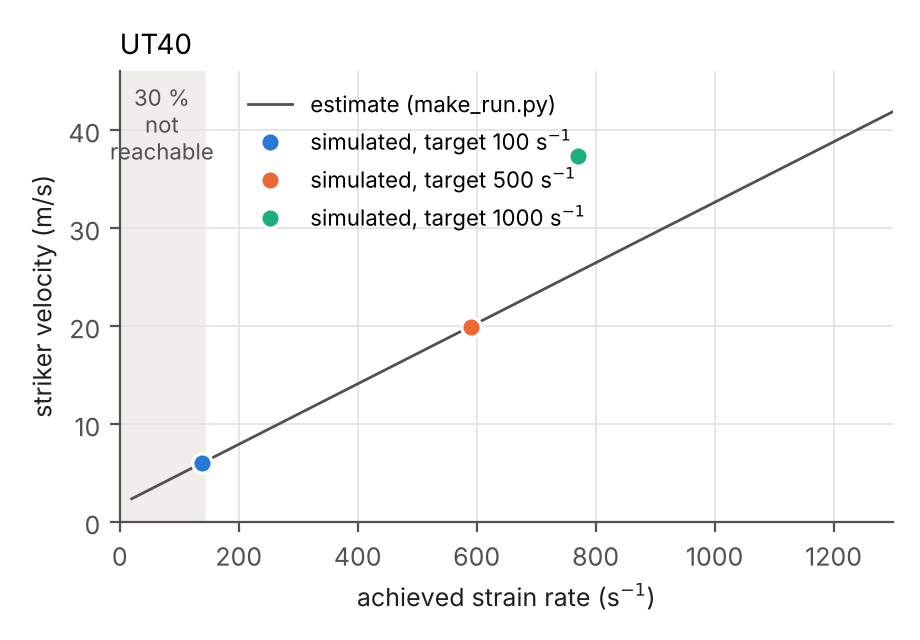
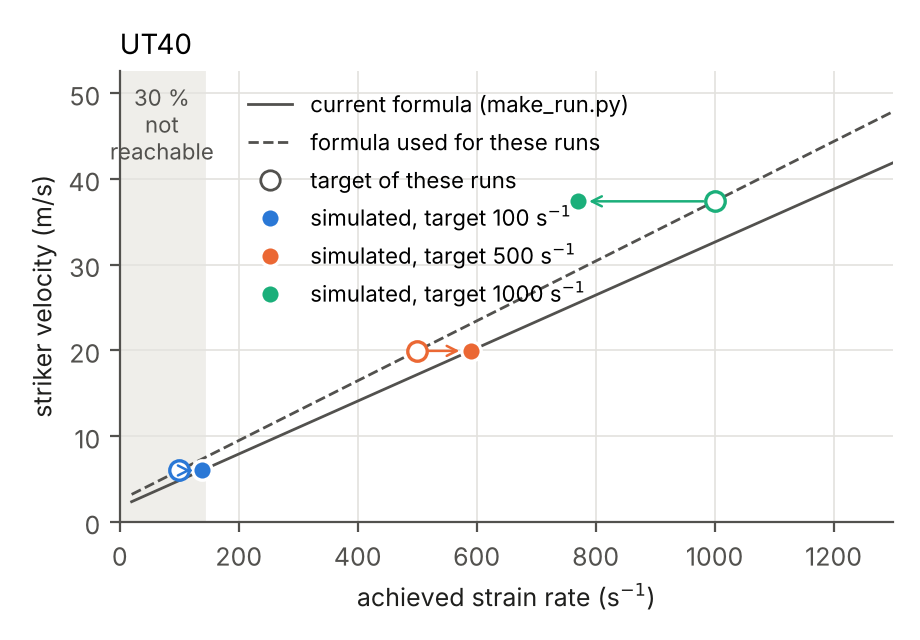
report_taskI: F5 shows the formula actually used when a study predates the recalibration
Claude-Session: https://claude.ai/code/session_01C589DfWUKukz1Y6CSBotW7

diff --git a/shpb-ut-equilibrium/scripts/post/report_taskI.py b/shpb-ut-equilibrium/scripts/post/report_taskI.py
@@ -472,6 +472,22 @@ def fig_peeq(groups, out):
     return True
 
 
+def formula_used(items):
+    """Constantes (L_eff en mm, F en N) de la formule qui a donne les vitesses du striker de ces calculs,
+    retrouvees a partir des couples (vitesse visee, vitesse du striker) : 2 K V = vit. x L_eff + 2 F / Z.
+    None si ces vitesses sont celles de la formule actuelle de make_run.py (ecart < 1 %)."""
+    rs = [r for _, (r, _c) in items]
+    spec = rs[0]['specimen']
+    if not make_run.SPECIMENS.get(spec) or len(rs) < 2:
+        return None
+    if all(abs(r['v_striker'] / make_run.striker_velocity(spec, r['target_rate']) - 1) < 0.01 for r in rs):
+        return None
+    x = np.array([r['target_rate'] for r in rs])
+    y = np.array([2 * make_run.K_IMP * r['v_striker'] for r in rs])
+    L, c = np.polyfit(x, y, 1)
+    return 1e3 * L, c * make_run.Z_BARRE / 2.0
+
+
 def fig_striker(groups, out):
     """Un panneau par eprouvette : formule de make_run.py (ligne) et calculs (points)."""
     fig, axs = new_axes(len(groups), w=4.2, h=3.2)
@@ -479,10 +495,23 @@ def fig_striker(groups, out):
     rr = np.linspace(20, 1300, 200)
     for k, (ax, (spec, items)) in enumerate(zip(axs, groups)):
         vmax = max(r['v_striker'] for _, (r, _c) in items)
+        old = formula_used(items)
         if make_run.SPECIMENS.get(spec):
             vv = [make_run.striker_velocity(spec, x) for x in rr]
-            ax.plot(rr, vv, color=INK2, lw=1.0, label='estimate (make_run.py)')
+            ax.plot(rr, vv, color=INK2, lw=1.0,
+                    label='current formula (make_run.py)' if old else 'estimate (make_run.py)')
             vmax = max(vmax, max(vv))
+        if old:
+            # formule qui a servi a choisir les vitesses de CES calculs (avant recalage) : pointilles ;
+            # cercles vides = vitesse visee, fleche -> vitesse obtenue
+            vo = [(x * old[0] * 1e-3 + 2 * old[1] / make_run.Z_BARRE) / (2 * make_run.K_IMP) for x in rr]
+            ax.plot(rr, vo, color=INK2, lw=1.0, ls='--', label='formula used for these runs')
+            vmax = max(vmax, max(vo))
+            for col, (r, c) in items:
+                ax.plot(r['target_rate'], r['v_striker'], 'o', ms=7, mfc='white', mec=col, mew=1.2)
+                ax.annotate('', xy=(r['achieved_rate'], r['v_striker']), xytext=(r['target_rate'], r['v_striker']),
+                            arrowprops=dict(arrowstyle='->', color=col, lw=0.9, shrinkA=4, shrinkB=4))
+            ax.plot([], [], 'o', ms=7, mfc='white', mec=INK2, label='target of these runs')
         ytop = 1.1 * vmax
         ax.axvspan(0, rate_min, color=BAND, zorder=0)
         ax.text(rate_min * 0.5, 0.97 * ytop, '30 %\nnot\nreachable', ha='center', va='top', color=INK2,
@@ -938,13 +967,28 @@ def write_report(study, rows, out, has_peeq=False):
     P('$L_{eff}$ is an effective length relating the elongation rate to the extensometer strain rate. For the UT19, '
       'a first estimate without the force term ($V = \\dot\\varepsilon \\times$ 15 mm) gave 21 s⁻¹ instead of '
       '100 s⁻¹, because the specimen force is then almost as large as the force carried by the incident wave.')
+    olds = {s_: formula_used([(None, (r, None)) for r in rows if r['specimen'] == s_]) for s_ in specs}
+    old_txt = ''.join(
+        ' **%s: the velocities of this study were chosen with an earlier version of the formula** ($L_{eff}$ = '
+        '%.0f mm, $F$ = %.0f kN, dashed line; open circles: target rate; arrows: rate actually achieved). The '
+        'solid line is the current formula, recalibrated afterwards: if it was calibrated on this study, its '
+        'points lie on it by construction, which is not a validation.' % (s_, o[0], o[1] / 1e3)
+        for s_, o in olds.items() if o)
+    for s_, o in olds.items():
+        if o:
+            P('**Note (%s).** The striker velocities of this study (%s) were computed with an earlier estimate of '
+              'the formula, $L_{eff}$ = %.0f mm and $F$ = %.0f kN, which is why the achieved strain rates differ '
+              'from the targets. The constants given above are the current ones; they were recalibrated '
+              'afterwards (%s), and the next study used the corrected velocities.'
+              % (s_, ' / '.join('%.2f m/s' % r['v_striker'] for r in rows if r['specimen'] == s_), o[0], o[1] / 1e3,
+                 sp[s_]['source']))
     figure('F5_striker_velocity.png', 'Figure F5 – Striker velocity required for a given strain rate',
            'the striker velocity (vertical axis), i.e. the setting of the test, against the strain rate in the '
            'specimen (horizontal axis), one panel per specimen. Line: the formula above. Dots: the simulations, at '
            'the imposed striker velocity and the achieved strain rate (T1). Shaded: 30 % not reachable.',
            'formula of `make_run.py` and simulation results.',
            'choose a strain rate on the horizontal axis and read the striker velocity on the line; dots on the '
-           'line confirm the formula.')
+           'line confirm the formula.' + old_txt)
     lim = ('**Limit for 30 %% strain.** The 5 m striker gives a %.2f ms loading pulse, so 30 %% strain requires at '
            'least 0.30 / %.2f ms ≈ %.0f s⁻¹; the output bar (5.99 m) also limits the measurement window to '
            '%.2f ms (Beerli et al. 2026).' % (PULSE_MS, PULSE_MS, rate_min, OUTPUT_WINDOW_MS))

diff --git a/shpb-ut-equilibrium/results/taskI_20261023-1140/report/report.md b/shpb-ut-equilibrium/results/taskI_20261023-1140/report/report.md
@@ -216,6 +216,8 @@ $$
 
 $L_{eff}$ is an effective length relating the elongation rate to the extensometer strain rate. For the UT19, a first estimate without the force term ($V = \dot\varepsilon \times$ 15 mm) gave 21 s⁻¹ instead of 100 s⁻¹, because the specimen force is then almost as large as the force carried by the incident wave.
 
+**Note (UT40).** The striker velocities of this study (6.00 m/s / 19.95 m/s / 37.39 m/s) were computed with an earlier estimate of the formula, $L_{eff}$ = 34 mm and $F$ = 15 kN, which is why the achieved strain rates differ from the targets. The constants given above are the current ones; they were recalibrated afterwards (calibrated on the first UT40 simulations at 100 and 500 s-1, study taskI_20261023-1140), and the next study used the corrected velocities.
+
 ![Figure 5 – Striker velocity required for a given strain rate](F5_striker_velocity.png)
 
 > **Figure 5 – Striker velocity required for a given strain rate.**
@@ -224,7 +226,7 @@ $L_{eff}$ is an effective length relating the elongation rate to the extensomete
 >
 > *Source* – formula of `make_run.py` and simulation results.
 >
-> *How to read it* – choose a strain rate on the horizontal axis and read the striker velocity on the line; dots on the line confirm the formula.
+> *How to read it* – choose a strain rate on the horizontal axis and read the striker velocity on the line; dots on the line confirm the formula. **UT40: the velocities of this study were chosen with an earlier version of the formula** ($L_{eff}$ = 34 mm, $F$ = 15 kN, dashed line; open circles: target rate; arrows: rate actually achieved). The solid line is the current formula, recalibrated afterwards: if it was calibrated on this study, its points lie on it by construction, which is not a validation.
 
 **Limit for 30 % strain.** The 5 m striker gives a 2.12 ms loading pulse, so 30 % strain requires at least 0.30 / 2.12 ms ≈ 142 s⁻¹; the output bar (5.99 m) also limits the measurement window to 2.33 ms (Beerli et al. 2026). At 1000 s⁻¹ (UT40) the strain stops at 12.6 %; 30 % would need about 0.4 ms of loading (0.30 / 770 s⁻¹ + 0.03 ms start-up), i.e. a striker of about 1.0 m: almost the length of the 7.5 m launch tube, and longer than the measurement window.
 

diff --git a/journal/2026-10-27.md b/journal/2026-10-27.md
@@ -221,6 +221,20 @@ New script `scripts/post/report_taskI_final.py`. It writes one complete report f
   - UT19: $L_{eff}$ = 12.0 mm, $F$ = 6.5 kN, striker velocities about 6–7 % lower;
   - UT40: $L_{eff}$ = 31.5 mm, $F$ = 9.5 kN, striker velocities 0 to +4 %.
 
+### 10. Striker velocity figure of the first UT40 study
+
+**Problem.** In the report of `taskI_20261023-1140`, the 100 and 500 s⁻¹ points lay exactly on the line of the striker velocity figure (F5), although the strain rates achieved in these runs were far from the targets (138 / 590 / 770 s⁻¹ instead of 100 / 500 / 1000).
+
+**Cause.** The line drawn was the **current** formula ($L_{eff}$ = 30.1 mm, $F$ = 10.4 kN). That formula was calibrated on these very two runs, so the two points lie on it by construction: this proves nothing about the formula. The velocities of the study had been chosen with the earlier estimate (34 mm, 15 kN).
+
+**Fix.** When the velocities of a study do not match the current formula, `report_taskI.py` now:
+- recovers the formula that was actually used by fitting it to the targets and the striker velocities (result: 34 mm and 15 kN, as expected);
+- draws that formula as a dashed line;
+- shows each target rate as an open circle, with an arrow to the rate actually achieved;
+- adds a note in the text of the report.
+
+The corrected velocities were the ones used in the next study, `taskI_20261023-1518`.
+
 ## Next Steps
 
 - Supervisor: fracture strain or model to use for DP1000; is 30 % engineering strain realistic for this material?
